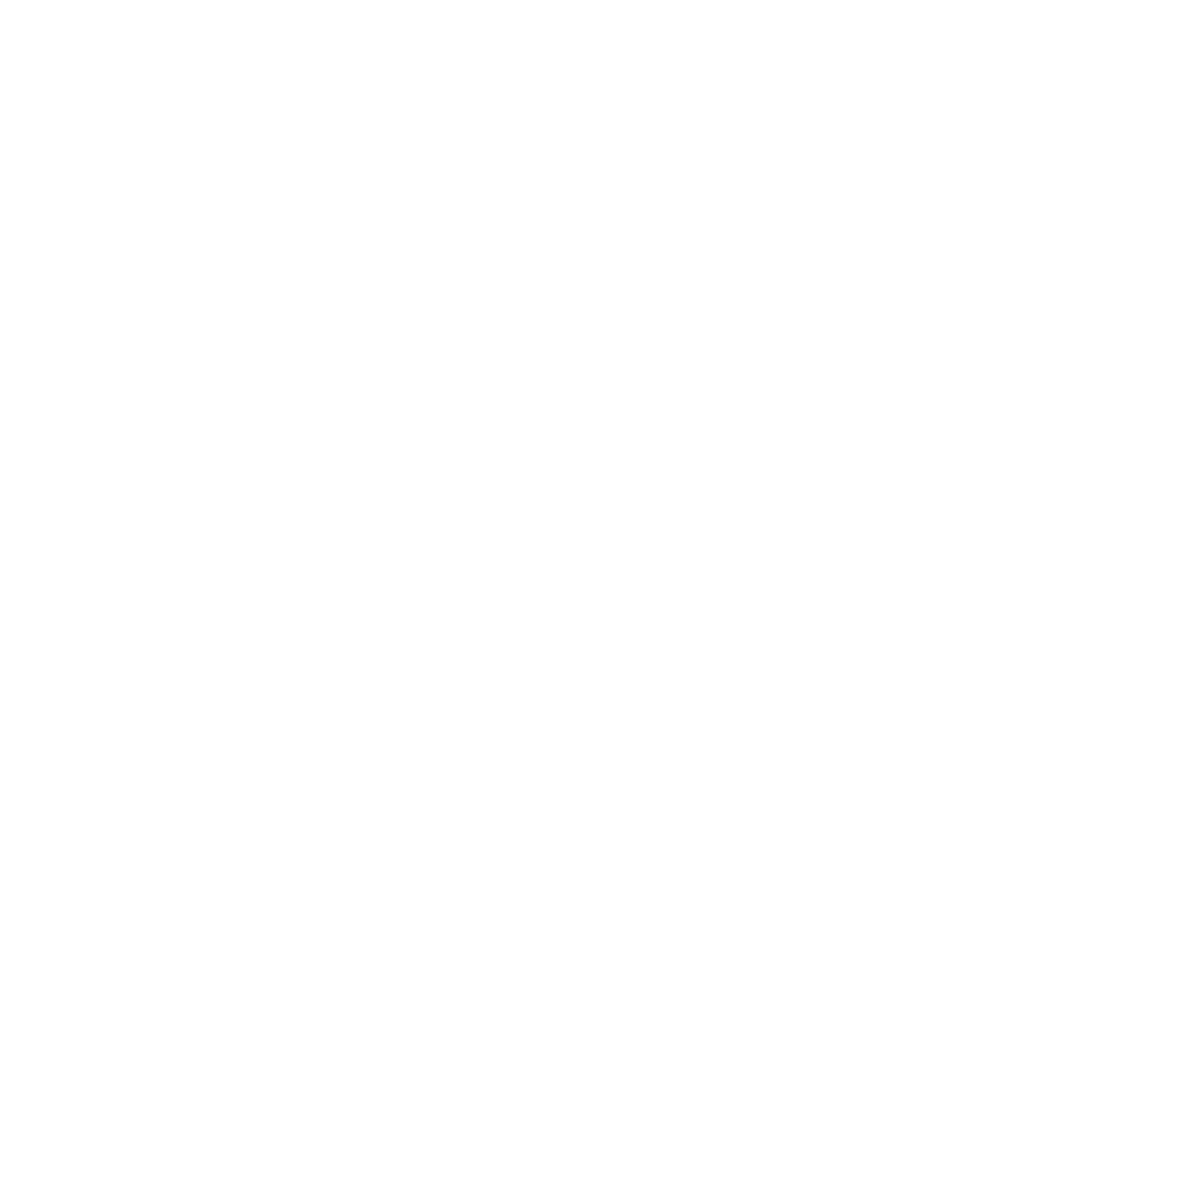
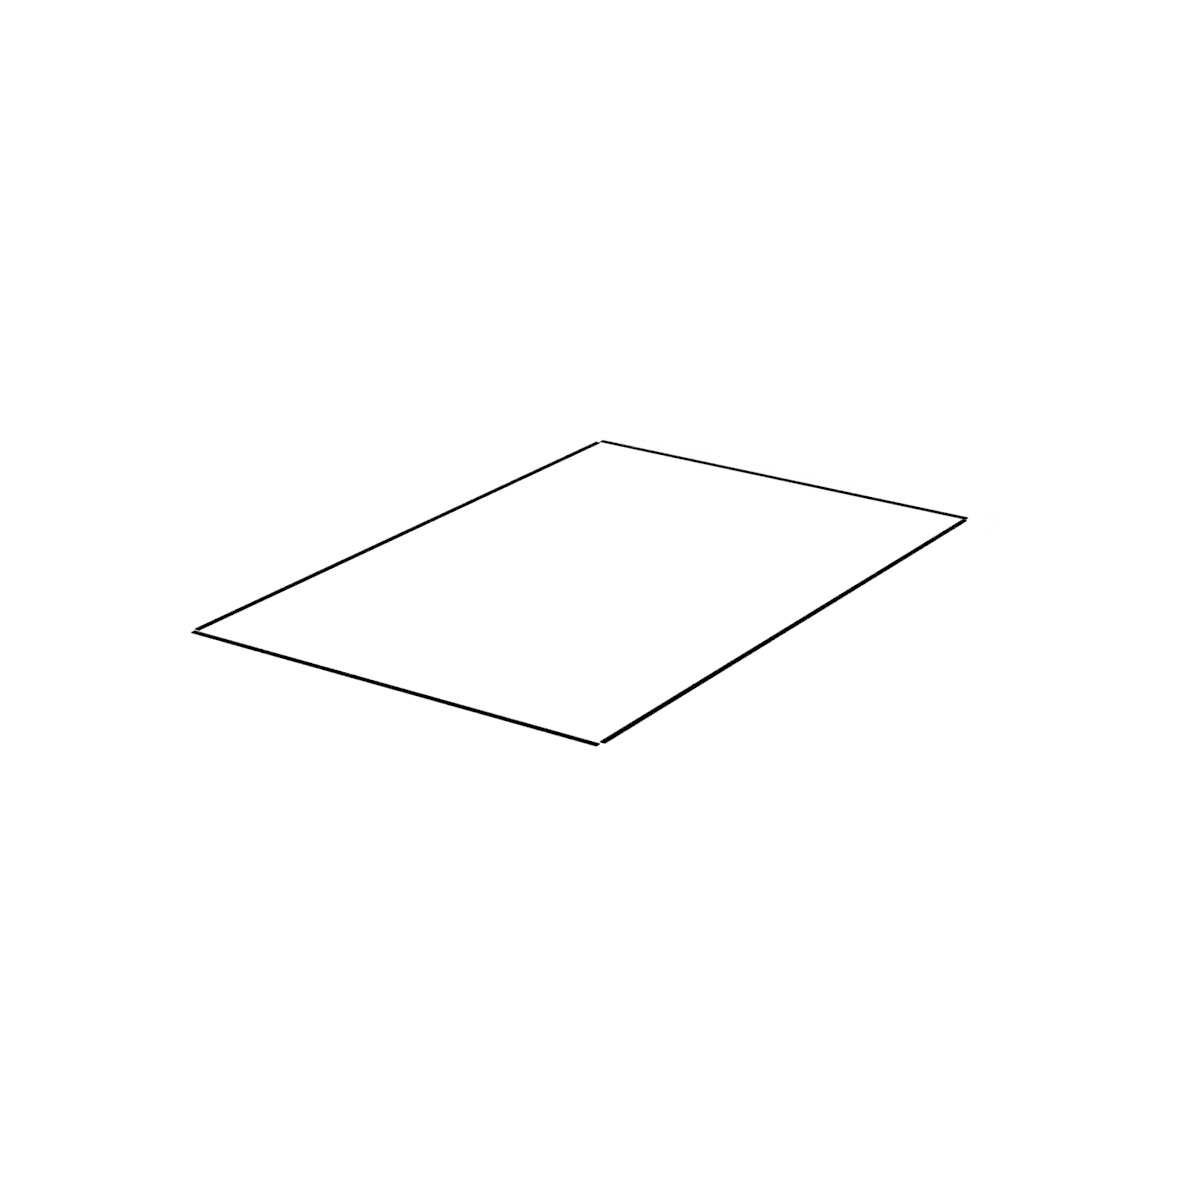
Mattorna omrenderade med mönstret ovanpå fältet
Ränder, romber med frans och indragen ram syns nu. Väven gör det inte,
och den frågan ligger som en punkt till granskningen i stället för som
en halvvägsändring av den låsta ljusstandarden.

diff --git a/furniture-library/_pipeline/artifact.py b/furniture-library/_pipeline/artifact.py
@@ -370,6 +370,17 @@ masks/catalog/*.png    masks/top/*.png</pre></div>
       står kvar som <code>design_intent_cm</code>.</p>
       <p>Det är enda sättet att svara ärligt på frågan om fotavtrycket stämmer med
       tillgången. Avvikelserna syns i stället för att döljas.</p></div>
+    <div class="note"><h3>Mattornas väv syns inte — och varför jag inte tyst rättade det</h3>
+      <p>Mönstren är rätt: ränder, romber, frans och indragen ram ligger som egen
+      geometri med egen mask. Men luggen syns knappt i topvyn, och punkt 33 vill se
+      väv och textur.</p>
+      <p>Orsaken är mätt, inte gissad. En bump syns bara när ljuset stryker över
+      den. Topvyns rigg lyser nästan rakt ner, så luggen får ingen skuggsida. Det
+      går att lösa med ett lågt sidoljus enbart för mattor, eller med verklig
+      geometri i luggen.</p>
+      <p>Båda ändrar den låsta ljusstandarden och kräver omrendering av allt.
+      Därför ligger det som en fråga till granskningen i stället för som en
+      halvvägsändring — punkt 51.</p></div>
     <div class="note"><h3>Varför 3D och inte bildgenerering</h3>
       <p>Kravet att båda vyerna ska visa exakt samma fysiska möbel, att topvyn ska
       vara ortografisk, och att maskerna ska följa materialytan exakt — inget av
